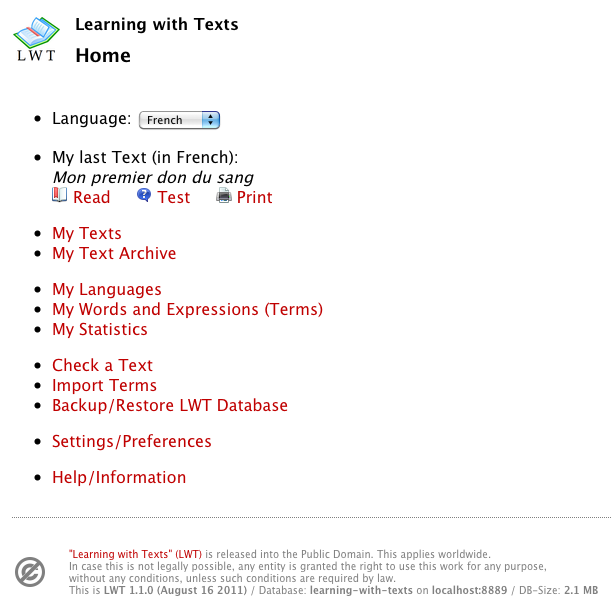
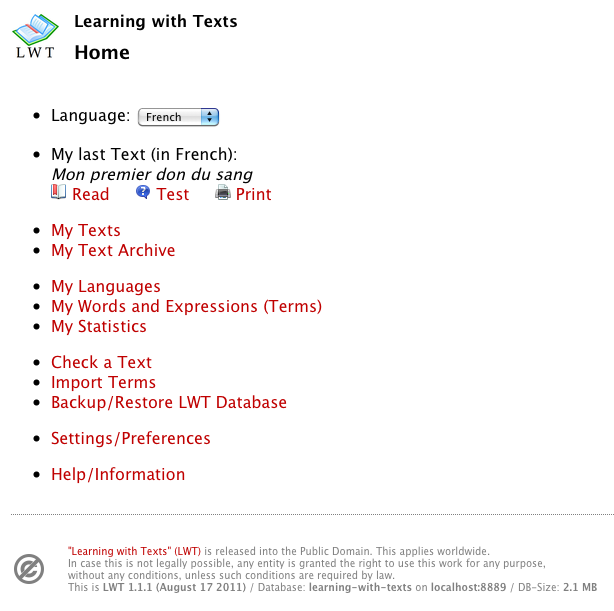
Version 1.1.1

diff --git a/info.htm b/info.htm
@@ -1656,13 +1656,13 @@ Another example: The URI to query "travailler" in sansagent is "http://dictionar
 					<tr class="tr1"><td class="td1">RETURN</td>
 					<td class="td1">The next UNKNOWN (blue) word in the text will be shown for creation</td></tr>
 					<tr class="tr1"><td class="td1">RIGHT or SPACE</td>
-					<td class="td1">Mark next SAVED (non-blue) term</td></tr>
+					<td class="td1">Mark next SAVED (non-blue) term (*)</td></tr>
 					<tr class="tr1"><td class="td1">LEFT</td>
-					<td class="td1">Mark previous SAVED (non-blue) term</td></tr>
+					<td class="td1">Mark previous SAVED (non-blue) term (*)</td></tr>
 					<tr class="tr1"><td class="td1">PGUP or HOME</td>
-					<td class="td1">Mark first SAVED (non-blue) term</td></tr>
+					<td class="td1">Mark first SAVED (non-blue) term (*)</td></tr>
 					<tr class="tr1"><td class="td1">PGDN or END</td>
-					<td class="td1">Mark last SAVED (non-blue) term</td></tr>
+					<td class="td1">Mark last SAVED (non-blue) term (*)</td></tr>
 					<tr class="tr1"><td class="td1">1, 2, 3, 4, 5</td>
 					<td class="td1">Set status of marked term to 1, 2, 3, 4, or 5</td></tr>
 					<tr class="tr1"><td class="td1">I</td>
@@ -1674,6 +1674,7 @@ Another example: The URI to query "travailler" in sansagent is "http://dictionar
 					<tr class="tr1"><td class="td1">ESC</td>
 					<td class="td1">Reset marked term(s)</td></tr>
 					</table>
+					(*) Only saved terms with the status(es) defined/filtered in the settings are visited and marked!<br /><br />
           </li>
           <li>Key Bindings in the TEST Frame<br />
 					<table class="tab3" cellspacing="0" cellpadding="5">
@@ -1917,7 +1918,7 @@ Another example: The URI to query "travailler" in sansagent is "http://dictionar
 
         	<li>1.1.1 (August 17 2011):
         	New option in print screen to select whether annotation should be placed in front (new option) or after (default) the term.<br />
-        	New option in settings screen "Visit only saved terms with status(es) ..." to specify which terms are visited when using RIGHT/SPACE/LEFT keys in the text frame (default: ALL non-blue terms = statuses 1..5, Ign, WKn).<br />
+        	New option in settings screen "Visit only saved terms with status(es) ..." to specify which terms are visited when using RIGHT/SPACE/LEFT/etc. keys in the text frame (default: ALL non-blue terms = statuses 1..5, Ign, WKn).<br />
         	The Status filter lists have been expanded.<br />
         	Documentation and screenshots updated.
         	<br /><br />

diff --git a/settings.php b/settings.php
@@ -202,7 +202,7 @@ value="<?php echo tohtml(getSettingWithDefault('set-test-edit-frame-waiting-time
 <!-- ******************************************************* -->
 <tr>
 <th class="th1 center">Reading</th>
-<td class="td1 center">Visit only saved terms with status(es)...<br />(via keystrokes RIGHT, SPACE or LEFT)</td>
+<td class="td1 center">Visit only saved terms with status(es)...<br />(via keystrokes RIGHT, SPACE, LEFT, etc.)</td>
 <td class="td1 center">
 <select name="set-text-visit-statuses-via-key">
 <?php

diff --git a/settings.inc.php b/settings.inc.php
@@ -16,7 +16,7 @@ Set script time limit
 Start a PHP session
 ***************************************************************/
 
-$debug = 1;  // 1 = debugging on, 0 = .. off
+$debug = 0;  // 1 = debugging on, 0 = .. off
 
 if ($debug) {
 	@error_reporting(E_ALL);

diff --git a/utilities.inc.php b/utilities.inc.php
@@ -19,7 +19,7 @@ Finally: Database Connect, Select, Update
 
 function get_version() {
 	global $debug;
-	return '1.1.1 (August ?? 2011)'  . 
+	return '1.1.1 (August 17 2011)'  . 
 	($debug ? ' <span class="red">DEBUG</span>' : '');
 }
 
